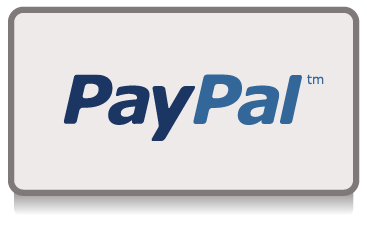
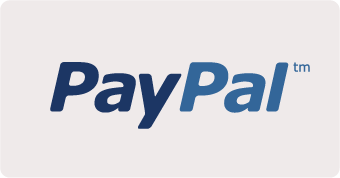
Tweak placeholders and borders on payment pages

Changed region(s): [[0.1471, 0.309, 0.9118, 0.7303], [0.0, 0.0281, 1.0, 0.8989]]

diff --git a/cypherpunk-com/src/app/components/payment/payment-selection/payment-selection.component.html b/cypherpunk-com/src/app/components/payment/payment-selection/payment-selection.component.html
@@ -1,7 +1,6 @@
 <div class="payment-options">
   <div class="type-container" (click)="update('cc')" [ngClass]="{'fade': paymentMethod && paymentMethod !== 'cc'}">
-    <img [ngClass]="{'show': paymentMethod === 'cc'}" src="/assets/payment/credit-card-selected@2x.png" srcset="/assets/payment/credit-card-selected.png 500w, /assets/payment/credit-card-selected@2x.png 1000w" alt="Credit Card">
-    <img [ngClass]="{'show': paymentMethod !== 'cc'}" src="/assets/payment/credit-card@2x.png" srcset="/assets/payment/credit-card.png 500w, /assets/payment/credit-card@2x.png 1000w" alt="Credit Card">
+    <img [ngClass]="{'active': paymentMethod === 'cc'}" src="/assets/payment/credit-card@2x.png" srcset="/assets/payment/credit-card.png 500w, /assets/payment/credit-card@2x.png 1000w" alt="Credit Card">
 
     <div class="text">
       <input id="cc" type="radio" name="paymentOptions">
@@ -13,8 +12,7 @@
   </div>
 
   <div class="type-container" (click)="update('pp')" [ngClass]="{'fade': paymentMethod && paymentMethod !== 'pp'}">
-    <img [ngClass]="{'show': paymentMethod === 'pp'}" src="/assets/payment/paypal-selected@2x.png" srcset="/assets/payment/paypal-selected.png 500w, /assets/payment/paypal-selected@2x.png 1000w" alt="PayPal">
-    <img [ngClass]="{'show': paymentMethod !== 'pp'}" src="/assets/payment/paypal@2x.png" srcset="/assets/payment/paypal.png 500w, /assets/payment/paypal@2x.png" alt="PayPal">
+    <img [ngClass]="{'active': paymentMethod === 'pp'}" src="/assets/payment/paypal@2x.png" srcset="/assets/payment/paypal.png 500w, /assets/payment/paypal@2x.png 1000w" alt="PayPal">
 
     <div class="text">
       <input id="pp" type="radio" name="paymentOptions">
@@ -26,8 +24,7 @@
   </div>
 
   <div class="type-container" (click)="update('a')" [ngClass]="{'fade': paymentMethod && paymentMethod !== 'a'}">
-    <img [ngClass]="{'show': paymentMethod === 'a'}" src="/assets/payment/amazon-selected@2x.png" srcset="/assets/payment/amazon-selected.png 500w, /assets/payment/amazon-selected@2x.png 1000w" alt="Amazon">
-    <img [ngClass]="{'show': paymentMethod !== 'a'}" src="/assets/payment/amazon@2x.png" srcset="/assets/payment/amazon.png 500w, /assets/payment/amazon@2x.png 1000w" alt="Amazon">
+    <img [ngClass]="{'active': paymentMethod === 'a'}" src="/assets/payment/amazon@2x.png" srcset="/assets/payment/amazon.png 500w, /assets/payment/amazon@2x.png 1000w" alt="Amazon">
 
     <div class="text">
       <input id="a" type="radio" name="paymentOptions">
@@ -39,8 +36,7 @@
   </div>
 
   <div class="type-container" (click)="update('bc')" [ngClass]="{'fade': paymentMethod && paymentMethod !== 'bc'}">
-    <img [ngClass]="{'show': paymentMethod === 'bc'}" src="/assets/payment/bitcoin-selected@2x.png" srcset="/assets/payment/bitcoin-selected.png 500w, /assets/payment/bitcoin-selected@2x.png 1000w" alt="BitCoin">
-    <img [ngClass]="{'show': paymentMethod !== 'bc'}" src="/assets/payment/bitcoin@2x.png" srcset="/assets/payment/bitcoin.png 500w, /assets/payment/bitcoin@2x.png 1000w" alt="BitCoin">
+    <img [ngClass]="{'active': paymentMethod === 'bc'}" src="/assets/payment/bitcoin@2x.png" srcset="/assets/payment/bitcoin.png 500w, /assets/payment/bitcoin@2x.png 1000w" alt="BitCoin">
 
     <div class="text">
       <input id="bc" type="radio" name="paymentOptions">

diff --git a/cypherpunk-com/src/app/components/forms/stripe-cc-form/stripe-cc-form.component.html b/cypherpunk-com/src/app/components/forms/stripe-cc-form/stripe-cc-form.component.html
@@ -14,6 +14,7 @@
       <div class="half">
         <label>Exp. Month</label><br />
         <select id="ccexpirymonth" name="expiryMonth" required formControlName="expiryMonth" [(ngModel)]="stripeFormData.month" [ngClass]="{'error': expiryMonth.touched && !expiryMonth.valid, 'success': expiryMonth.touched && expiryMonth.valid}" autocomplete="cc-exp-month">
+          <option selected disabled hidden>MM</option>
           <option *ngFor="let month of monthArray" [value]="month">{{month}}</option>
         </select>
       </div>
@@ -21,6 +22,7 @@
       <div class="half">
         <label>Exp. Year</label><br />
         <select id="ccexpiryyear" name="expiryYear" required formControlName="expiryYear" [(ngModel)]="stripeFormData.year" [ngClass]="{'error': expiryYear.touched && !expiryYear.valid, 'success': expiryYear.touched && expiryYear.valid}" autocomplete="cc-exp-year">
+          <option selected disabled hidden>YYYY</option>
           <option *ngFor="let year of yearArray" [value]="year">{{year}}</option>
         </select>
       </div>

diff --git a/cypherpunk-com/src/app/components/payment/payment-selection/payment-selection.component.scss b/cypherpunk-com/src/app/components/payment/payment-selection/payment-selection.component.scss
@@ -7,8 +7,14 @@
     margin: 0 20px 0;
     opacity: 1;
     &.fade { opacity: 0.5; }
-    img { display: none; margin: auto; width: 185px; }
-    img.show { display: block; }
+    img {
+      margin: auto;
+      width: 185px;
+      margin-bottom: 20px;
+      border: 3px solid #d9dfe2;
+      border-radius: 5px;
+      &:hover, &.active { border-color: #00d630;   }
+    }
   }
 
   .text {

diff --git a/cypherpunk-com/src/app/components/payment/price-boxes/price-boxes.component.scss b/cypherpunk-com/src/app/components/payment/price-boxes/price-boxes.component.scss
@@ -10,10 +10,8 @@
     position: relative;
     &:first-child { margin-left: 0; }
     &:last-child { margin-right: 0; }
-    &.active {
-      .box { border-color: #00d630; }
-      .box .checkmark { display: block; }
-    }
+    &:hover, &.active { .box { border-color: #00d630; } }
+    &.active .box .checkmark { display: block; }
 
     .best-value {
       width: 115px;
